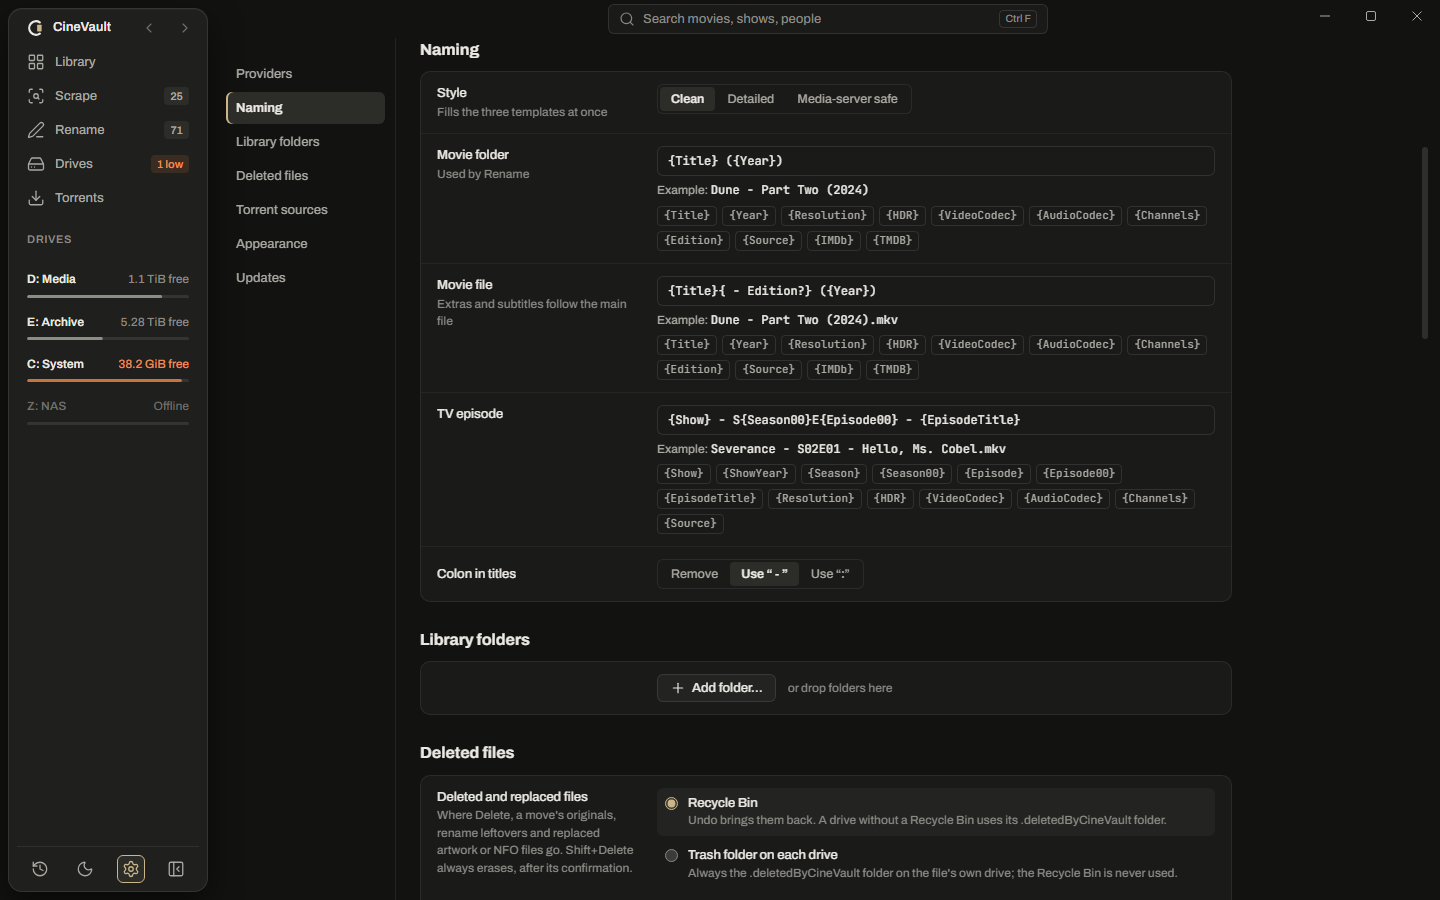
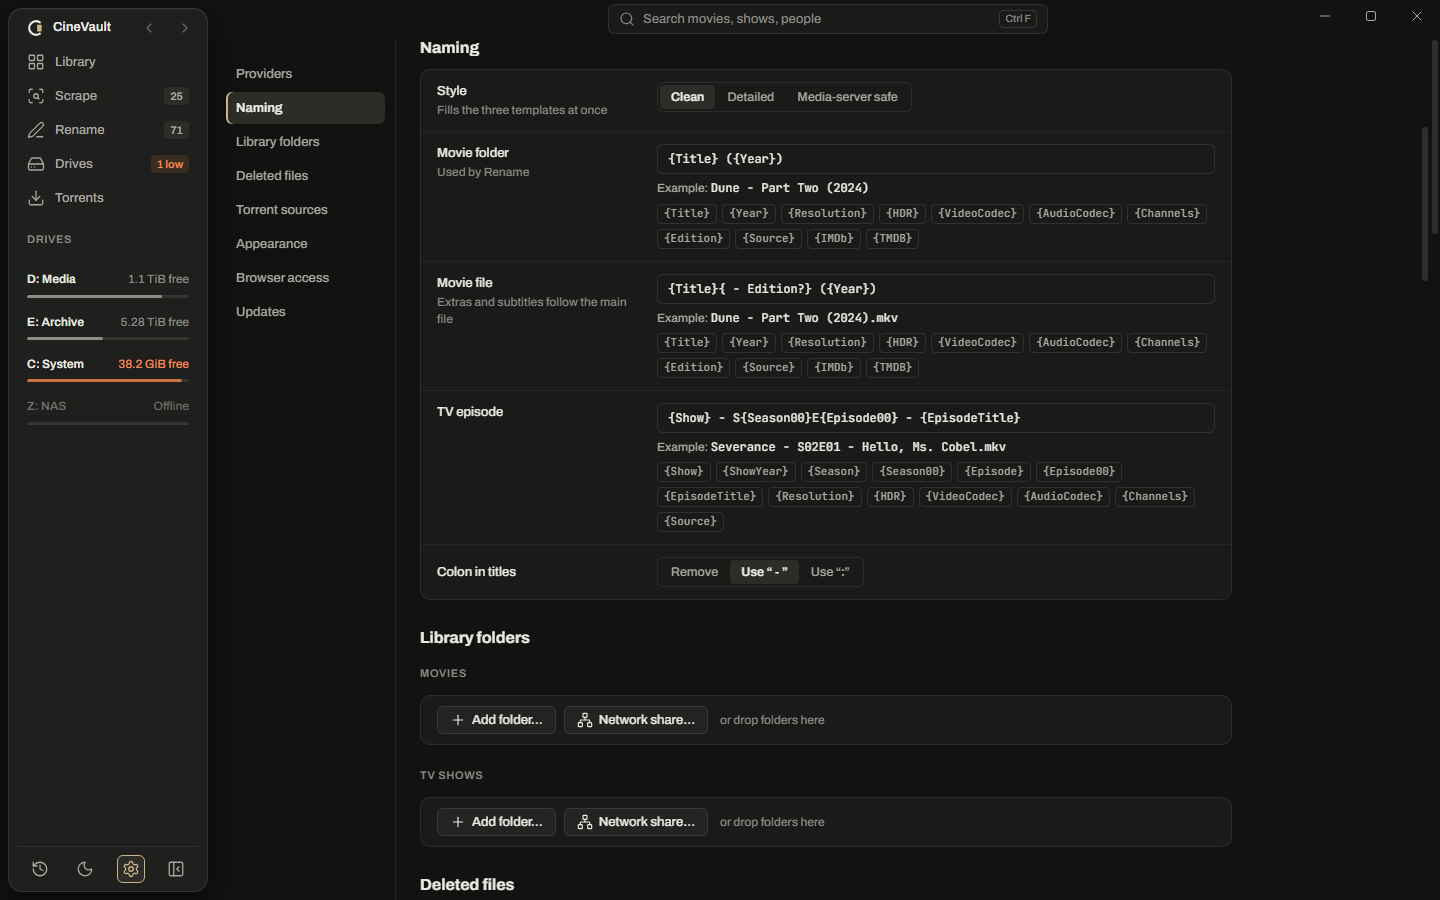
docs: show Network share… in the screenshots, README, landing page and changelog
The Library folders and first-run screenshots (README and site, dark and
light) show the new Add folder… and Network share… buttons. The README
and landing page say a NAS folder can be added with its login, and the
changelog lists the feature under 1.3.1.

diff --git a/site/index.html b/site/index.html
@@ -88,7 +88,7 @@
       <ol class="flow-list">
         <li class="flow-step reveal">
           <div class="flow-top"><span class="num">1</span><h3>Scan</h3><span class="stage">New</span></div>
-          <p>Automatic. Add your movie and TV folders and CineVault finds every title, keeps its extra files with it and watches for changes. NFO files already on disk are read first, so titles that have them arrive already Scraped.</p>
+          <p>Automatic. Add your movie and TV folders, or a folder on a NAS with its user name and password, and CineVault finds every title, keeps its extra files with it and watches for changes. NFO files already on disk are read first, so titles that have them arrive already Scraped.</p>
         </li>
         <li class="flow-step reveal">
           <div class="flow-top"><span class="num">2</span><h3>Scrape</h3><span class="stage">Scraped</span></div>
@@ -407,7 +407,7 @@
       <ol class="steps">
         <li><span class="num">1</span><div><h3>Install and open</h3><p>Run the installer, or unzip the portable copy anywhere.</p></div></li>
         <li><span class="num">2</span><div><h3>Add a free TMDB key</h3><p>Create one at <a class="link" href="https://www.themoviedb.org/settings/api">themoviedb.org</a> and paste it in. OMDb and MDBList keys are optional and add more ratings.</p></div></li>
-        <li><span class="num">3</span><div><h3>Add your folders</h3><p>CineVault scans them right away. Then Scrape and Rename from the sidebar.</p></div></li>
+        <li><span class="num">3</span><div><h3>Add your folders</h3><p>Add a folder, or a network share with its login. CineVault scans them right away. Then Scrape and Rename from the sidebar.</p></div></li>
       </ol>
     </div>
   </section>

diff --git a/site/changelog.html b/site/changelog.html
@@ -52,6 +52,15 @@
       <h1>What's new in CineVault</h1>
       <p class="section-lede">What changed in each version, newest first.</p>
     </header>
+    <article class="log-entry" id="v1.3.1">
+      <div class="log-meta"><h2>1.3.1</h2><span class="pill">Coming next</span></div>
+      <div class="log-body">
+<h3>Added</h3>
+<ul>
+<li>Network shares: add a library folder from a NAS with its user name and password (Settings › Library folders › Network share…). CineVault keeps the password in your system's credential store and reconnects at start; the server installers set shares up for browser mode.</li>
+</ul>
+      </div>
+    </article>
     <article class="log-entry" id="v1.3.0">
       <div class="log-meta"><h2>1.3.0</h2><time datetime="2026-10-31">31 October 2026</time></div>
       <div class="log-body">

diff --git a/README.md b/README.md
@@ -41,7 +41,7 @@
 1. **Install.** Download the installer from the [website](https://mustafayevt.github.io/CineVault/) or the [releases page](https://github.com/mustafayevt/CineVault/releases). The Windows builds are not code-signed yet, so SmartScreen ("More info", then "Run anyway") warns on first launch.
    - **Linux (beta, 64-bit):** Ubuntu 22.04 or newer, Fedora 38 or newer. The AppImage needs FUSE 2 (`libfuse2t64` on Ubuntu 24.04): `chmod +x CineVault-x86_64.AppImage`, then open it; it updates itself from inside the app. Or install the `.deb` (`sudo apt install ./CineVault-amd64.deb`) or the `.rpm` (`sudo dnf install ./CineVault-x86_64.rpm`). If the window stays blank on some graphics drivers, start CineVault with `WEBKIT_DISABLE_DMABUF_RENDERER=1`.
    - **macOS:** a version is planned.
-2. **Add your folders and a free TMDB key.** The first-run screen asks where your movies and shows are, then for a [TMDB API key](https://www.themoviedb.org/settings/api) (free; the only key needed to Scrape).
+2. **Add your folders and a free TMDB key.** The first-run screen asks where your movies and shows are, then for a [TMDB API key](https://www.themoviedb.org/settings/api) (free; the only key needed to Scrape). A folder on a NAS that wants its own user name and password is added with **Network share…** next to **Add folder…**; CineVault keeps the password in your system's credential store.
 3. **Scan, Scrape, Rename.** Scanning starts on its own. Scrape your titles, check the Rename preview, apply. Everything can be undone from History.
 
 ## Use it in a browser (beta)

diff --git a/openspec/changes/connect-network-shares/tasks.md b/openspec/changes/connect-network-shares/tasks.md
@@ -29,7 +29,7 @@
 - [x] 5.1 Add the Network share page (fields, paste parsing, path preview, Show/Hide, Remember with the store's name, busy state with Esc to cancel, inline errors and banners, the Linux explanation, reconnect mode) and show it on `/gallery`. Verified by vitest tests for each state and error, and `bun run lint`, `typecheck`, `format:check`.
 - [x] 5.2 Add "Network share…" to Settings › Library folders and the onboarding Folders step, the offline reason and "Connect…" on folder rows, and the "on \\nas\movies as alex" line. Verified by vitest tests for the section and the step with a fake backend.
 - [x] 5.3 Add the browser popover for "Network share…" with the installer command and Copy. Verified by a vitest test in server mode that shows the popover and no password field.
-- [ ] 5.4 Refresh the screenshots that show Library folders (`bun run shots`, `.github/assets/`, `site/img/`), the landing page wording and the README where Library folders are described, and add the `CHANGELOG.md` line with `bun run site:changelog`. Verified by `bun run site:changelog -- --check` and the refreshed images in the pull request.
+- [x] 5.4 Refresh the screenshots that show Library folders (`bun run shots`, `.github/assets/`, `site/img/`), the landing page wording and the README where Library folders are described, and add the `CHANGELOG.md` line with `bun run site:changelog`. Verified by `bun run site:changelog -- --check` and the refreshed images in the pull request.
 
 ## 6. Installer and server guide
 

diff --git a/CHANGELOG.md b/CHANGELOG.md
@@ -2,6 +2,12 @@
 
 What changed in each version of CineVault, newest first, in plain words. The app shows this file under Settings › Updates › Release notes, and after an update it shows the notes of the version you just got. The format follows [Keep a Changelog](https://keepachangelog.com/en/1.1.0/).
 
+## [1.3.1] - unreleased
+
+### Added
+
+- Network shares: add a library folder from a NAS with its user name and password (Settings › Library folders › Network share…). CineVault keeps the password in your system's credential store and reconnects at start; the server installers set shares up for browser mode.
+
 ## [1.3.0] - 2026-10-31
 
 ### Added
